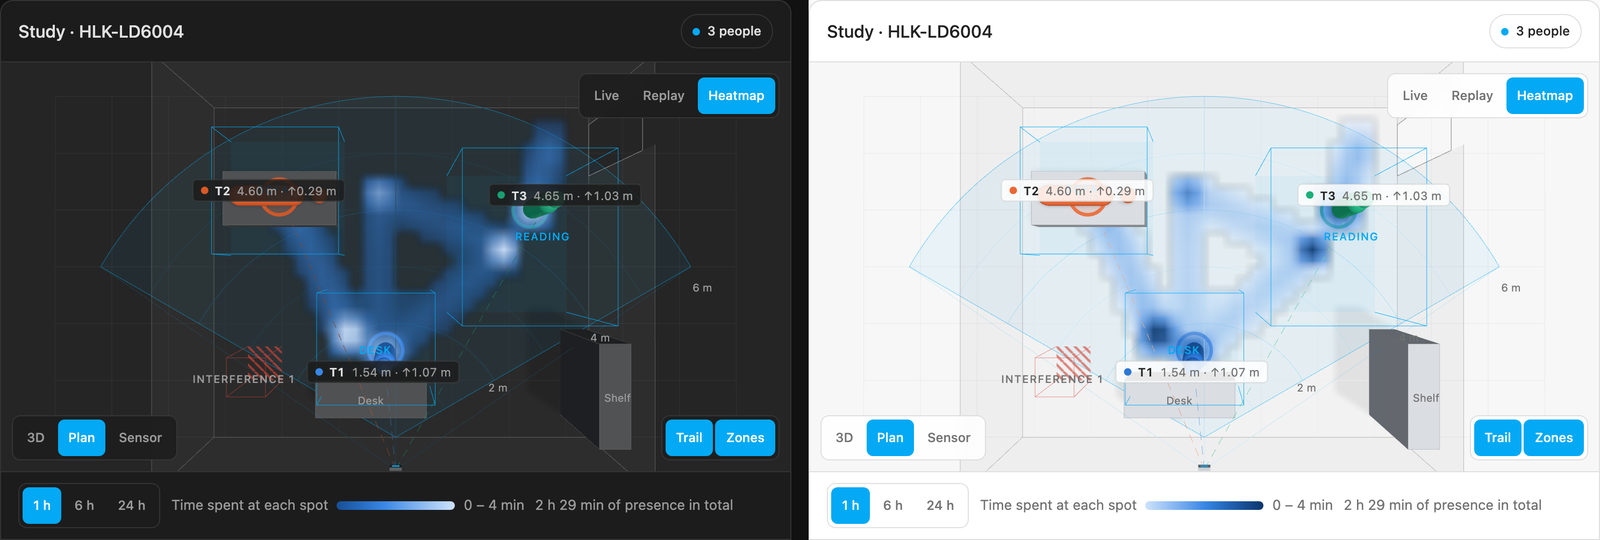
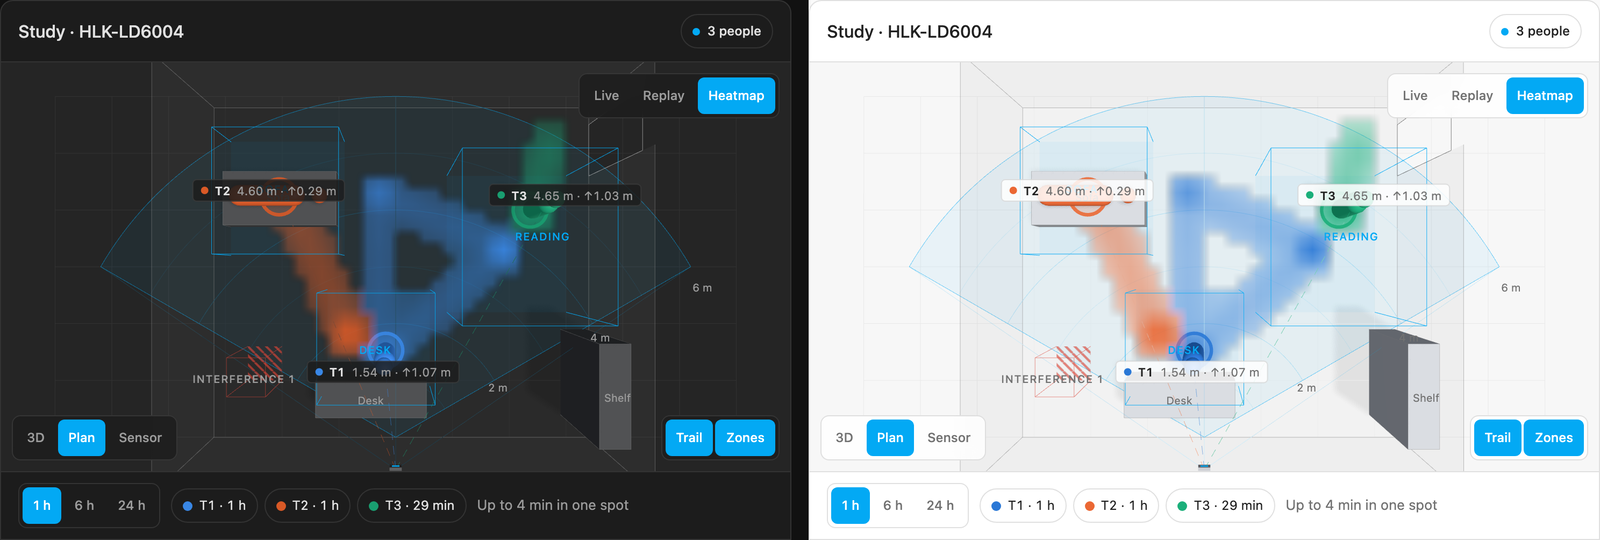
Document the per-person heatmap and refresh its images

diff --git a/README.md b/README.md
@@ -31,7 +31,7 @@ It supports two Hi-Link radars:
 - **Edit, draw and delete zones** on the floor, saved straight to the sensor; on the LD6004 that includes interference and dwell zones. [More](#editing-zones)
 - **Tap a person or a zone** to open its more-info dialog. [More](#opening-an-entitys-details)
 - **Replay** the last 1, 6 or 24 hours from the recorder. [More](#replay)
-- **Heatmap** of where people spent their time. [More](#heatmap)
+- **Heatmap** of where each person spent their time, in their colour. [More](#heatmap)
 - **Zones from the sensor**, drawn as boxes: detection zones light up when someone is inside; zones the radar ignores (LD6004 interference, LD2450 *Filter*) are hatched; dwell zones have dashed edges.
 - **Wall or ceiling mounting**; the LD6004 can read it from its *Install Method* select.
 - **Follows the Home Assistant theme** (light, dark and custom themes); the UI is in English or Spanish, following HA's language.
@@ -186,11 +186,15 @@ The people, the table and the zone chips show the chosen moment; zones themselve
 
 ### Heatmap
 
-![Time spent at each spot over the last hour, dark and light themes](docs/images/heatmap.png)
+![Time spent at each spot over the last hour, coloured by person, dark and light themes](docs/images/heatmap.png)
 
-*Time spent at each spot over the last hour, in the dark and light themes.*
+*Time spent at each spot over the last hour, coloured by person, in the dark and light themes.*
 
-Select **Heatmap** and a period. The card adds up how long someone was detected on each 20 cm patch of floor and paints it in blue: the longer, the darker on a light card and the brighter on a dark one. The legend gives the longest time spent in one spot and the total time with someone present. Live people keep moving on top. The plan view reads best.
+Select **Heatmap** and a period. The card adds up how long each person was detected on each 20 cm patch of floor. Each patch takes the colour of whoever spent the most time there, the same colour as their figure, and the more time, the more solid it looks.
+
+The chips under the view give each person's total time; tap one to hide or show that person, for example to see only where T2 has been. Next to them, the longest time spent in a single spot. Live people keep moving on top. The plan view reads best.
+
+T1, T2 and T3 are the radar's tracking slots, not identities: when people come and go, the radar can hand a slot to someone else, so over an hour "T1" may be more than one person.
 
 ## Configuration reference
 
